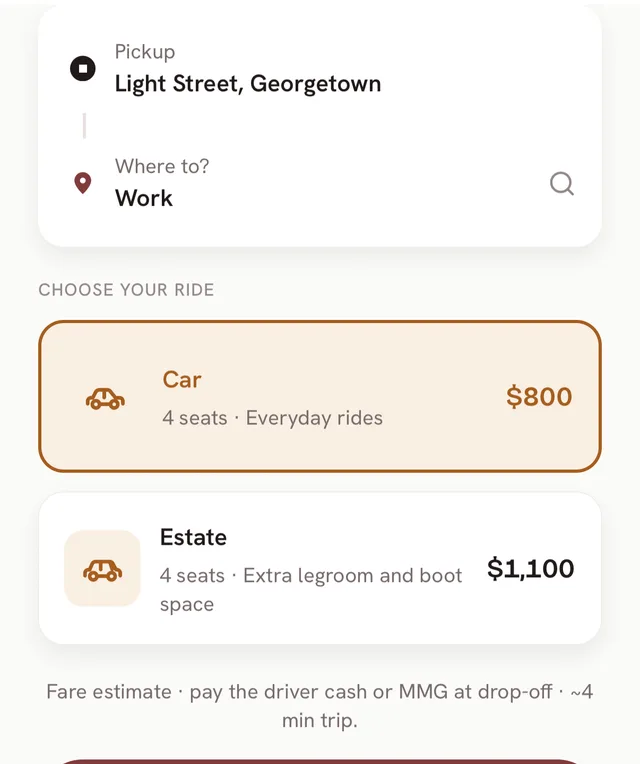
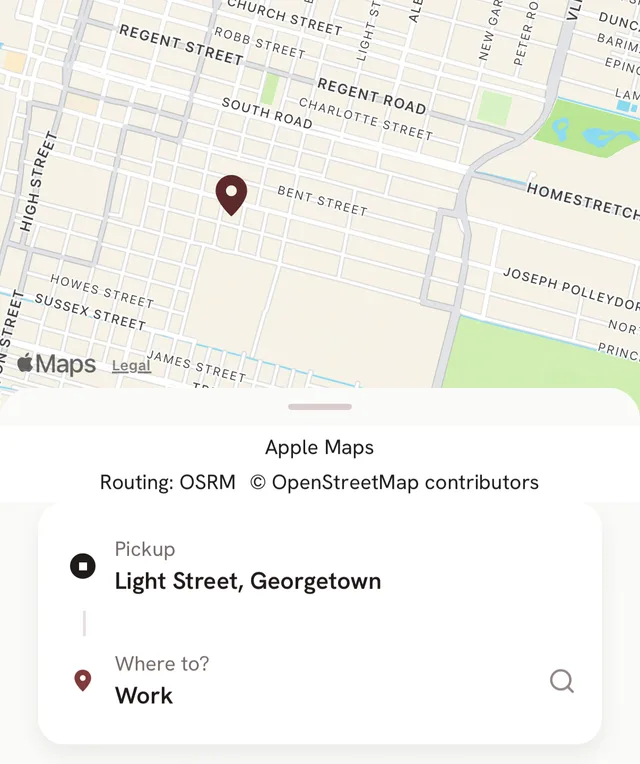
fix(web): the home page's taxi screen shows no fares (owner: "dont show prices")
The Ride card's screen is now the taxi booking screen cut above the ride choices: the destination
pinned on the map, and the pickup and destination fields. No fare, price or fare-estimate line
shows on any screen of the page. Same image size (no layout shift); alt text says what it shows; a
test keeps fares and prices out of the screens' descriptions.

diff --git a/apps/web/src/web-front-door.test.tsx b/apps/web/src/web-front-door.test.tsx
@@ -126,7 +126,7 @@ describe('[Item 7] the front door itself', () => {
     expect(images.map((img) => img.getAttribute('alt'))).toEqual([
       'The Swift app’s Home screen: a Good afternoon greeting, search, and tiles for Food, Groceries, Taxi, Send, Services, Orders, Favourites and Scan.',
       'Live order tracking in the Swift app: the rider on the map and where the order stands.',
-      'Booking a taxi in the Swift app: pickup, destination and the fare for each ride before you request it.',
+      'Booking a taxi in the Swift app: the destination pinned on the map, and the pickup and destination fields.',
       'The rider’s side of the Swift app: a map of Georgetown and the button to go online for jobs.',
     ]);
     for (const img of images) {
@@ -140,7 +140,8 @@ describe('[Item 7] the front door itself', () => {
   it('the screens never carry a name, a rating, a review or earnings in their words', async () => {
     const view = await frontDoor();
     const alts = [...view.container.querySelectorAll('img')].map((img) => img.alt).join(' ');
-    expect(alts).not.toMatch(/Demo|Kezia|rating|review|earn(ed|ings)/i);
+    // [Owner 30 Oct, round 3] "dont show prices": no screen shows a fare or a price.
+    expect(alts).not.toMatch(/Demo|Kezia|rating|review|earn(ed|ings)|fare|price|\$/i);
   });
 
   it('on a phone the Order / Ride / Earn cards are one swipe row; on a wide screen, three columns', async () => {

diff --git a/apps/web/src/app/(marketing)/launching-soon/page.tsx b/apps/web/src/app/(marketing)/launching-soon/page.tsx
@@ -11,7 +11,8 @@ import { launchCity } from '@/lib/web-ordering';
 //    monogram is the app's own no-name "S" (HomeScreen.tsx greetingLine + monogram), as for an account with no
 //    first name;
 //  - live order tracking, cut above the timeline's store name;
-//  - the taxi booking sheet: pickup, destination and the fare of each ride before you request it;
+//  - the taxi booking screen: the destination on the map, and the pickup and destination, cut above the ride choices so no
+//    fare shows (owner 30 Oct: "dont show prices");
 //  - the rider's home, offline, cut above the earnings card.
 import appHome600 from './app-home-600.webp';
 import appHome880 from './app-home-880.webp';
@@ -177,7 +178,7 @@ export default function LaunchingSoonPage() {
             job. Follow every order live on the map.
           </Card>
           <Card
-            shot={{ image: appTaxi, alt: 'Booking a taxi in the Swift app: pickup, destination and the fare for each ride before you request it.' }}
+            shot={{ image: appTaxi, alt: 'Booking a taxi in the Swift app: the destination pinned on the map, and the pickup and destination fields.' }}
             title="Ride"
             more={<MoreLink href="/faq">Common questions</MoreLink>}
           >
